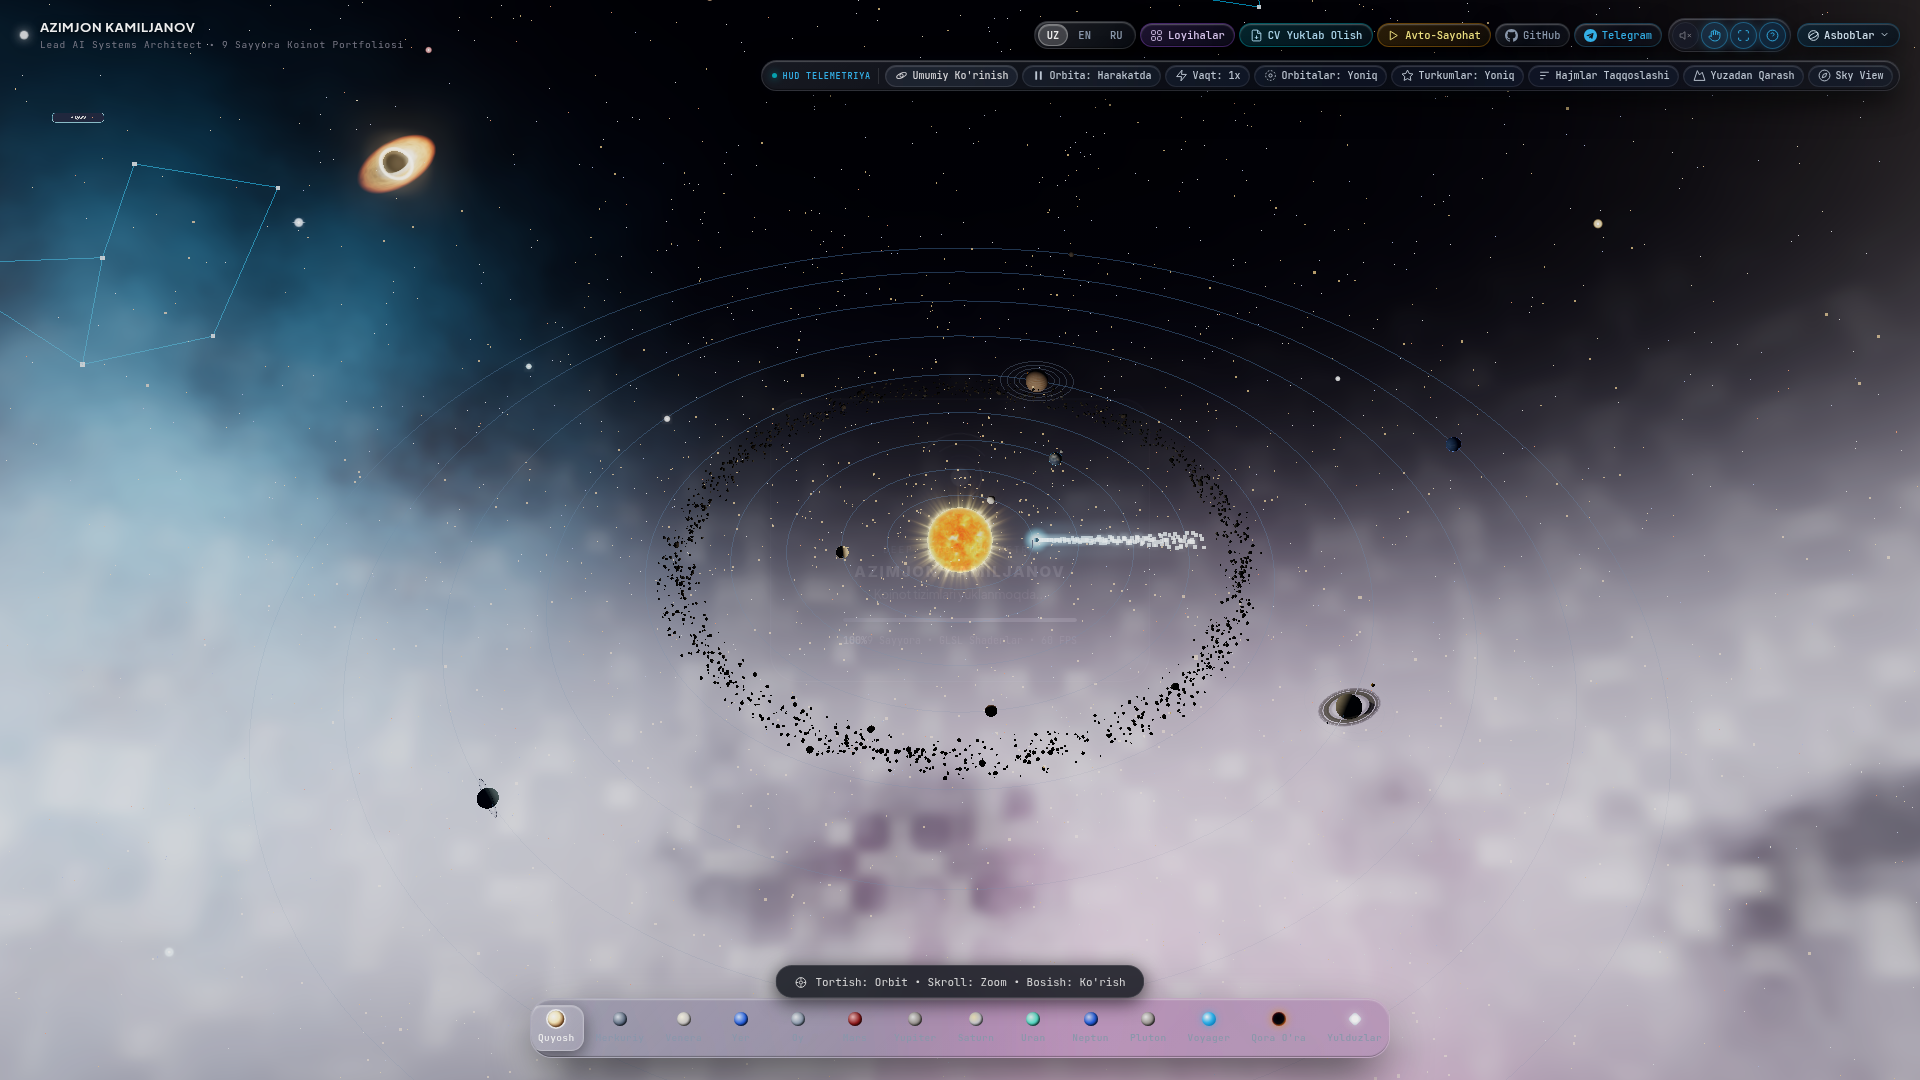
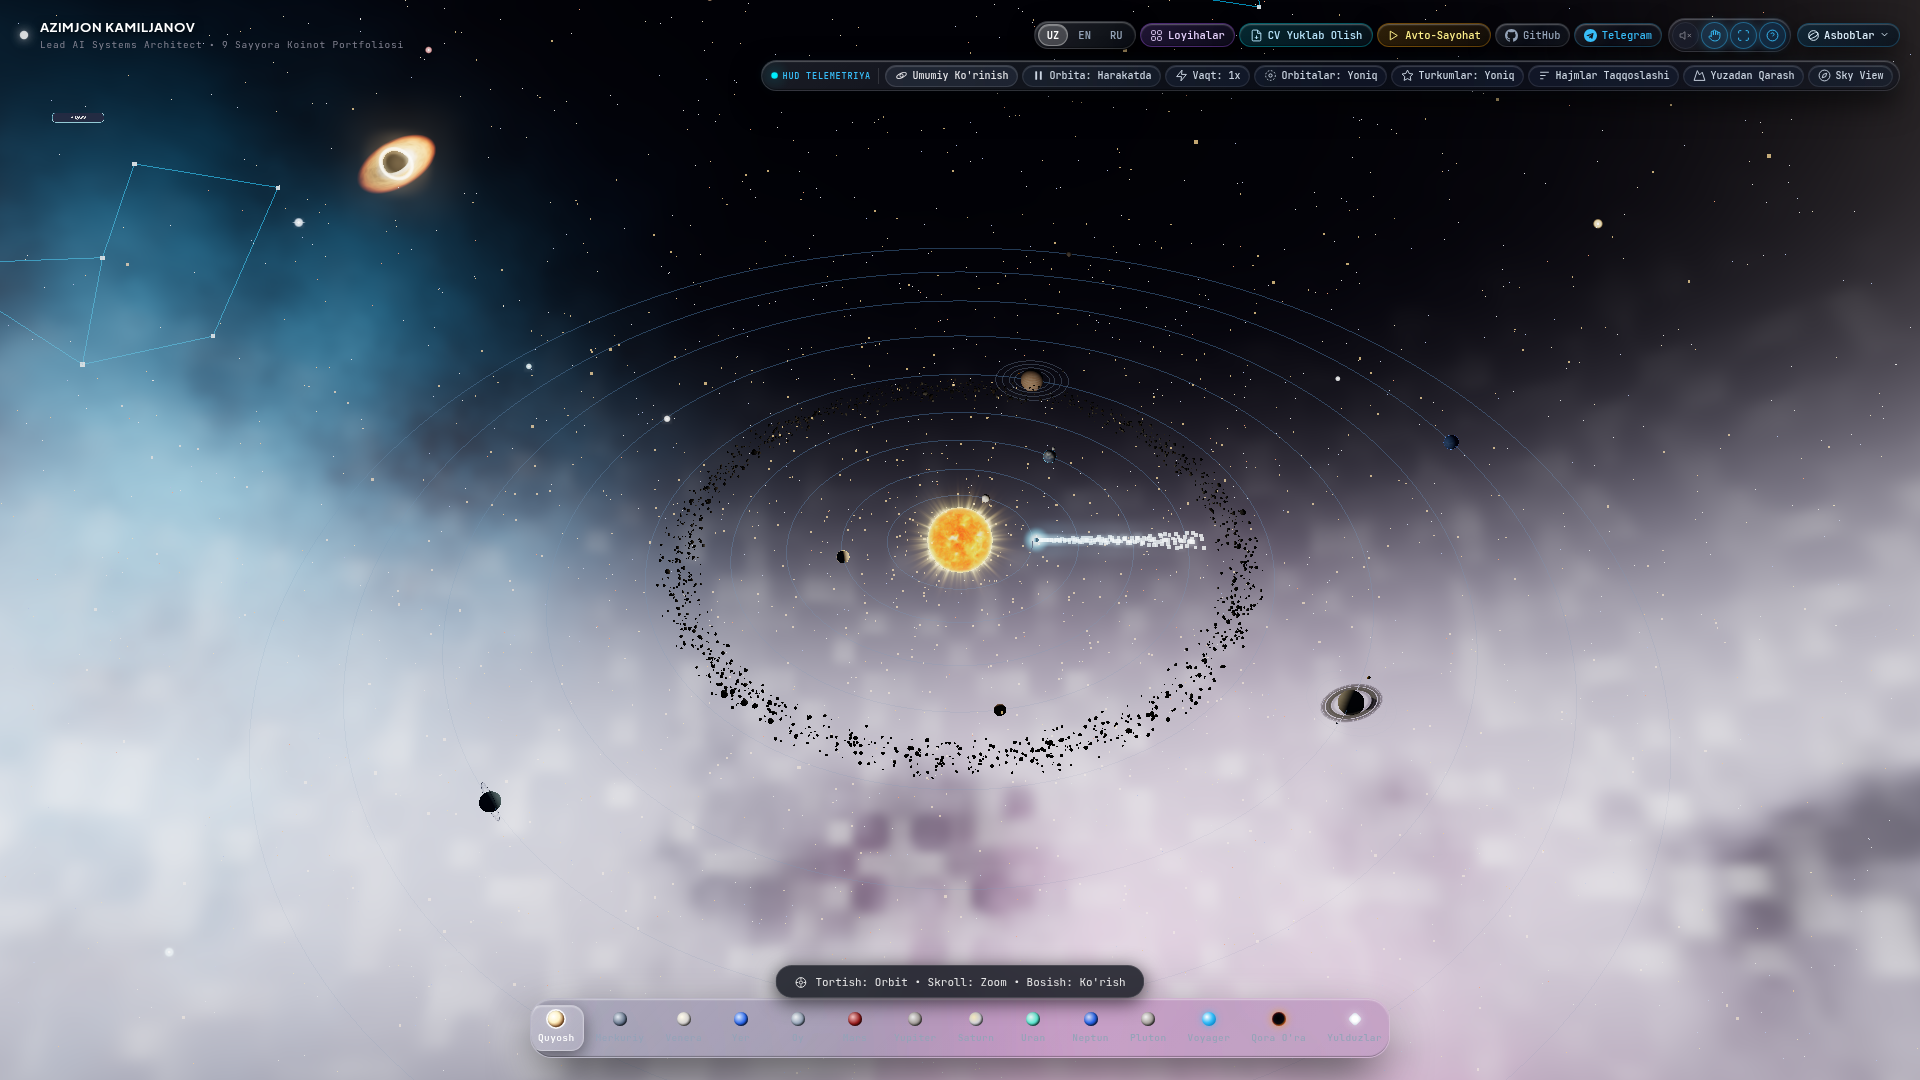
fix(ui): eliminate 1024px overflow, resolve mobile header collision, add active neon glows and micro-tooltips

diff --git a/style.css b/style.css
@@ -260,6 +260,30 @@ body, html {
     box-shadow: 0 0 14px rgba(239, 68, 68, 0.35) !important;
 }
 
+/* Liquid Glass Pressed / Active States with Soft Neon Glows */
+.header-link:active,
+.lang-btn:active,
+.telemetry-island-toggle:active {
+    transform: scale(0.96) !important;
+    box-shadow: inset 0 1px 2px rgba(255, 255, 255, 0.45), 0 0 16px rgba(56, 189, 248, 0.45) !important;
+    border-color: rgba(56, 189, 248, 0.6) !important;
+}
+
+.header-link.highlight-link:active {
+    box-shadow: inset 0 1px 2px rgba(255, 255, 255, 0.45), 0 0 18px rgba(168, 85, 247, 0.55) !important;
+    border-color: rgba(168, 85, 247, 0.7) !important;
+}
+
+.header-link.highlight-tour:active {
+    box-shadow: inset 0 1px 2px rgba(255, 255, 255, 0.45), 0 0 18px rgba(245, 158, 11, 0.55) !important;
+    border-color: rgba(245, 158, 11, 0.7) !important;
+}
+
+.header-link.highlight-resume:active {
+    box-shadow: inset 0 1px 2px rgba(255, 255, 255, 0.45), 0 0 18px rgba(0, 240, 255, 0.55) !important;
+    border-color: rgba(0, 240, 255, 0.7) !important;
+}
+
 /* 2. Koinot Asboblari / Quick Toggles Pod (Icon Pod) */
 .brand-group-toggles {
     display: inline-flex;
@@ -300,6 +324,43 @@ body, html {
     color: #ffffff;
     box-shadow: inset 0 1px 1px rgba(255, 255, 255, 0.3), 0 0 12px rgba(255, 255, 255, 0.12);
     transform: none;
+}
+
+.icon-pod-btn:active {
+    transform: scale(0.92) !important;
+    box-shadow: 0 0 12px rgba(56, 189, 248, 0.5) !important;
+}
+
+/* Floating Glass Micro-Tooltip */
+.icon-pod-btn[data-tooltip]::before {
+    content: attr(data-tooltip);
+    position: absolute;
+    top: calc(100% + 7px);
+    left: 50%;
+    transform: translateX(-50%) translateY(-4px);
+    background: rgba(10, 16, 28, 0.90);
+    backdrop-filter: blur(20px) saturate(180%);
+    -webkit-backdrop-filter: blur(20px) saturate(180%);
+    border: 1px solid rgba(255, 255, 255, 0.16);
+    box-shadow: inset 0 1px 1px rgba(255, 255, 255, 0.25), 0 8px 20px rgba(0, 0, 0, 0.5);
+    color: #e2e8f0;
+    font-size: 9.5px;
+    font-family: 'JetBrains Mono', monospace;
+    font-weight: 500;
+    padding: 3px 8px;
+    border-radius: 999px;
+    white-space: nowrap !important;
+    pointer-events: none;
+    opacity: 0;
+    visibility: hidden;
+    transition: opacity 0.18s ease, transform 0.18s ease, visibility 0.18s ease;
+    z-index: 100;
+}
+
+.icon-pod-btn[data-tooltip]:hover::before {
+    opacity: 1;
+    visibility: visible;
+    transform: translateX(-50%) translateY(0);
 }
 
 .icon-pod-btn.audio-muted {
@@ -2625,24 +2686,47 @@ body, html {
 /* ==============================================================================
    📱 MOBILE RESPONSIVENESS & NO HORIZONTAL OVERFLOW (100% CONTAINMENT)
    ============================================================================== */
-/* Tablet & Small Laptop (1024px - 1280px) Optimization */
+/* Tablet & Small Laptop (769px - 1280px) Optimization */
 @media (min-width: 769px) and (max-width: 1280px) {
     #brand-header {
         top: 14px;
         left: 14px;
         right: 14px;
+        max-width: calc(100vw - 28px);
         gap: 6px;
     }
     .brand-actions {
         gap: 4px;
+        max-width: calc(100% - 220px);
+    }
+    .brand-nav-group {
+        gap: 3px;
     }
     .brand-nav-group .header-link {
         padding: 3.5px 7px;
         font-size: 9.5px;
     }
+    .brand-nav-group .social-text {
+        display: none;
+    }
+    /* Critical fix: Prevent cosmic telemetry island from overflowing 1024px screens */
+    .cosmic-telemetry-island {
+        max-width: 100%;
+        overflow-x: auto;
+        scrollbar-width: none;
+        -webkit-overflow-scrolling: touch;
+        padding: 3px 6px;
+    }
+    .cosmic-telemetry-island::-webkit-scrollbar {
+        display: none;
+    }
+    .telemetry-buttons-track {
+        gap: 3px;
+    }
     .telemetry-buttons-track .header-link {
         padding: 3px 6.5px;
         font-size: 9px;
+        flex-shrink: 0;
     }
 }
 
@@ -2654,23 +2738,31 @@ body, html {
         width: calc(100vw - 20px);
         max-width: calc(100vw - 20px);
         box-sizing: border-box;
+        gap: 6px;
+    }
+    .brand-main-bar {
+        display: flex;
+        flex-direction: column;
+        align-items: stretch;
+        gap: 6px;
+        width: 100%;
     }
     .brand-left {
-        gap: 5px;
-        flex: 0 1 auto;
-        min-width: 0;
-        max-width: 85px;
+        display: flex;
+        align-items: center;
+        gap: 8px;
+        width: 100%;
+        max-width: 100%;
     }
     .brand-left > div {
         min-width: 0;
-        overflow: hidden;
+        overflow: visible;
     }
     .brand-title {
-        font-size: 10px;
-        letter-spacing: 0.3px;
-        white-space: nowrap;
-        overflow: hidden;
-        text-overflow: ellipsis;
+        font-size: 11px;
+        letter-spacing: 0.5px;
+        white-space: nowrap !important;
+        overflow: visible;
     }
     .brand-subtitle {
         display: none;
@@ -2678,20 +2770,29 @@ body, html {
     .brand-actions {
         display: flex;
         align-items: center;
+        justify-content: space-between;
+        width: 100%;
+        max-width: 100%;
         gap: 3px;
-        flex-shrink: 0;
-        max-width: calc(100vw - 95px);
+        overflow-x: auto;
+        scrollbar-width: none;
+        -webkit-overflow-scrolling: touch;
+        box-sizing: border-box;
         flex-wrap: nowrap;
+    }
+    .brand-actions::-webkit-scrollbar {
+        display: none;
     }
     .brand-nav-group {
         display: inline-flex;
         align-items: center;
         gap: 2.5px;
-        flex-wrap: nowrap;
+        flex-shrink: 0;
     }
     .lang-switch-container {
         padding: 2px 2px;
         gap: 1px;
+        flex-shrink: 0;
     }
     .lang-btn {
         padding: 2.5px 4.5px;
@@ -2711,6 +2812,7 @@ body, html {
         font-size: 10px;
         align-items: center;
         justify-content: center;
+        flex-shrink: 0;
     }
     .brand-nav-group #catalog-btn-text,
     .brand-nav-group #resume-download-text,
@@ -2720,14 +2822,20 @@ body, html {
     .brand-group-toggles {
         padding: 2px 2px;
         gap: 1px;
+        flex-shrink: 0;
     }
     .icon-pod-btn {
         width: 25px;
         height: 25px;
+        flex-shrink: 0;
+    }
+    .icon-pod-btn::before {
+        display: none !important;
     }
     .telemetry-island-toggle {
         padding: 3.5px 6px;
         gap: 2px;
+        flex-shrink: 0;
     }
     .telemetry-toggle-label {
         display: none !important;
@@ -2743,7 +2851,7 @@ body, html {
         padding: 3px 5px;
         border-radius: 999px;
         box-sizing: border-box;
-        margin-top: 2px;
+        margin-top: 0;
     }
     .cosmic-telemetry-island::-webkit-scrollbar {
         display: none;
@@ -2766,11 +2874,14 @@ body, html {
         flex-shrink: 0 !important;
         white-space: nowrap !important;
     }
+    /* Hide all text inside telemetry island on mobile for clean uniform icon pills */
     #gesture-toggle-text,
     #overview-btn-text,
     #tour-toggle-text,
     #resume-download-text,
     #orbit-toggle-text,
+    #warp-speed-text,
+    #orbits-toggle-text,
     #audio-toggle-text,
     #constellations-toggle-text,
     #scale-compare-text,
@@ -2778,7 +2889,7 @@ body, html {
     #skyview-toggle-text,
     #catalog-btn-text,
     #guide-toggle-text {
-        display: none;
+        display: none !important;
     }
     .gesture-hud {
         top: 52px;

diff --git a/index.html b/index.html
@@ -164,16 +164,16 @@
 
                 <!-- Group 2: Koinot Asboblari / Quick Toggles Pod (Icon Pod) -->
                 <div class="brand-group-toggles" id="brand-quick-toggles" aria-label="Tezkor boshqaruvlar">
-                    <button id="audio-toggle-btn" class="header-link audio-muted icon-pod-btn" title="Kosmik Ovozni Yoqish yoki O'chirish">
+                    <button id="audio-toggle-btn" class="header-link audio-muted icon-pod-btn" title="Kosmik Ovozni Yoqish yoki O'chirish" data-tooltip="Kosmik Ovoz">
                         <span id="audio-toggle-icon"><svg class="btn-svg" viewBox="0 0 24 24" width="13" height="13" fill="none" stroke="currentColor" stroke-width="1.8"><polygon points="11 5 6 9 2 9 2 15 6 15 11 19 11 5"/><line x1="22" y1="9" x2="16" y2="15"/><line x1="16" y1="9" x2="22" y2="15"/></svg></span> <span id="audio-toggle-text" class="pod-btn-text">Ovoz: O'chiq</span>
                     </button>
-                    <button id="gesture-toggle-btn" class="header-link gesture-inactive icon-pod-btn" title="Kamera orqali Qo'l Harakatlari Boshqaruvi (AI Vision)">
+                    <button id="gesture-toggle-btn" class="header-link gesture-inactive icon-pod-btn" title="Kamera orqali Qo'l Harakatlari Boshqaruvi (AI Vision)" data-tooltip="AI Qo'l Boshqaruvi">
                         <span id="gesture-toggle-icon"><svg class="btn-svg" viewBox="0 0 24 24" width="13" height="13" fill="none" stroke="currentColor" stroke-width="1.8"><path d="M18 11V6a2 2 0 0 0-2-2v0a2 2 0 0 0-2 2v5"/><path d="M14 10V4a2 2 0 0 0-2-2v0a2 2 0 0 0-2 2v7"/><path d="M10 10.5V6a2 2 0 0 0-2-2v0a2 2 0 0 0-2 2v8"/><path d="M18 8a2 2 0 1 1 4 0v6a8 8 0 0 1-8 8h-2c-2.8 0-4.5-.86-5.99-2.34l-3.6-3.6a2 2 0 0 1 2.83-2.83L7 15"/></svg></span> <span id="gesture-toggle-text" class="pod-btn-text">Qo'l Boshqaruvi</span>
                     </button>
-                    <button id="cinematic-toggle-btn" class="header-link icon-pod-btn" title="Toza Koinot Rejimi (H) / Pure Space Cinematic Mode">
+                    <button id="cinematic-toggle-btn" class="header-link icon-pod-btn" title="Toza Koinot Rejimi (H) / Pure Space Cinematic Mode" data-tooltip="Toza Fazo (H)">
                         <span id="cinematic-toggle-icon"><svg class="btn-svg" viewBox="0 0 24 24" width="13" height="13" fill="none" stroke="currentColor" stroke-width="1.8"><path d="M8 3H5a2 2 0 0 0-2 2v3m18 0V5a2 2 0 0 0-2-2h-3m0 18h3a2 2 0 0 0 2-2v-3M3 16v3a2 2 0 0 0 2 2h3"/></svg></span> <span id="cinematic-toggle-text" class="pod-btn-text">Toza Fazo</span>
                     </button>
-                    <button id="guide-toggle-btn" class="header-link icon-pod-btn" title="Foydalanish Bo'yicha Ko'rsatma / Guide">
+                    <button id="guide-toggle-btn" class="header-link icon-pod-btn" title="Foydalanish Bo'yicha Ko'rsatma / Guide" data-tooltip="Ko'rsatma">
                         <span class="icon"><svg class="btn-svg" viewBox="0 0 24 24" width="13" height="13" fill="none" stroke="currentColor" stroke-width="1.8"><circle cx="12" cy="12" r="10"/><path d="M9.09 9a3 3 0 0 1 5.83 1c0 2-3 3-3 3"/><line x1="12" y1="17" x2="12.01" y2="17"/></svg></span> <span id="guide-toggle-text" class="pod-btn-text">Ko'rsatma</span>
                     </button>
                 </div>

diff --git a/main.js b/main.js
@@ -4089,8 +4089,21 @@ function setLanguage(lang) {
             : (uiTexts.gestureBtn || "Qo'l Boshqaruvi");
     }
     const gestureToggleBtn = document.getElementById('gesture-toggle-btn');
-    if (gestureToggleBtn && uiTexts.gestureTitle) {
-        gestureToggleBtn.title = uiTexts.gestureTitle;
+    if (gestureToggleBtn) {
+        if (uiTexts.gestureTitle) gestureToggleBtn.title = uiTexts.gestureTitle;
+        gestureToggleBtn.setAttribute('data-tooltip', uiTexts.gestureBtn || "Qo'l Boshqaruvi");
+    }
+    const audioToggleBtn = document.getElementById('audio-toggle-btn');
+    if (audioToggleBtn) {
+        audioToggleBtn.setAttribute('data-tooltip', isAudioMuted ? uiTexts.audioOff : uiTexts.audioOn);
+    }
+    const cinematicToggleBtn = document.getElementById('cinematic-toggle-btn');
+    if (cinematicToggleBtn) {
+        cinematicToggleBtn.setAttribute('data-tooltip', uiTexts.cinematicBtn || "Toza Fazo");
+    }
+    const guideToggleBtn = document.getElementById('guide-toggle-btn');
+    if (guideToggleBtn) {
+        guideToggleBtn.setAttribute('data-tooltip', uiTexts.guideBtn || "Ko'rsatma");
     }
     const gestureBadgeText = document.getElementById('gesture-badge-text');
     if (gestureBadgeText && uiTexts.gestures?.hudTitle) {
